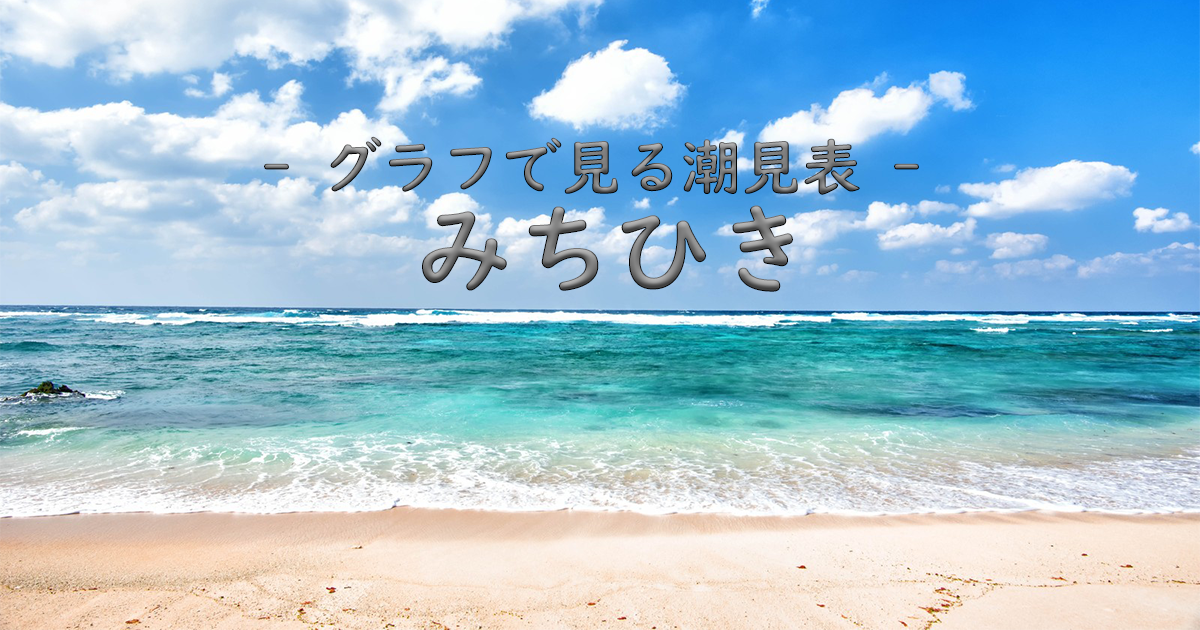
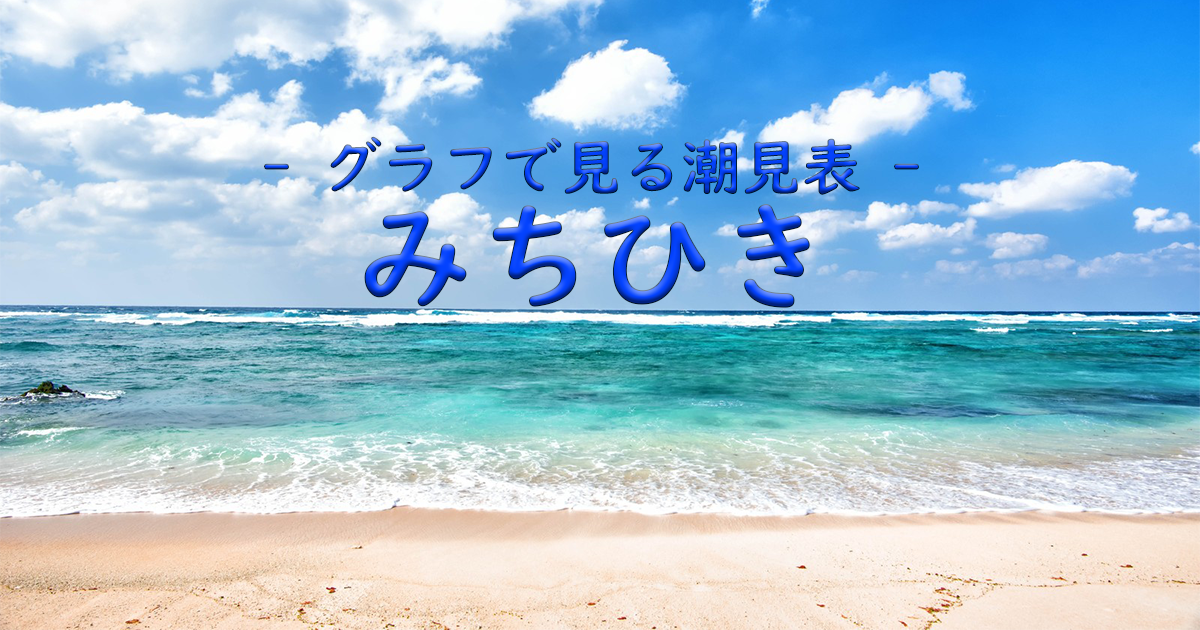
重複していたIDをまとめた。ogp変更。

diff --git a/pages/index.vue b/pages/index.vue
@@ -263,8 +263,10 @@
       </div>
       
       <!-- ページスクロールボタン -->
-      <nuxt-link v-scroll-to="`#top`" to><img src="~/static/yajirusi.png" alt="矢印の画像" class="rounded-full h-11 w-11 bg-blue-600 p-2 mr-2 mb-2 cursor-pointer bottom-14 right-0 mobileTopButton"></nuxt-link>
-      <nuxt-link v-scroll-to="`#top`" to><img src="~/static/yajirusi.png" alt="矢印の画像" class="rounded-full h-11 w-11 bg-blue-600 p-2 mr-2 mb-2 cursor-pointer bottom-2 right-0 pcTopButton"></nuxt-link>
+      <dir  v-scroll-to="`#top`" to>
+         <img src="~/static/yajirusi.png" alt="矢印の画像" class="rounded-full h-11 w-11 bg-blue-600 p-2 mr-2 mb-2 cursor-pointer bottom-14 right-0 mobileTopButton">
+         <img src="~/static/yajirusi.png" alt="矢印の画像" class="rounded-full h-11 w-11 bg-blue-600 p-2 mr-2 mb-2 cursor-pointer bottom-2 right-0 pcTopButton">
+      </dir>
    </div>
   <Footer />
 </div>
